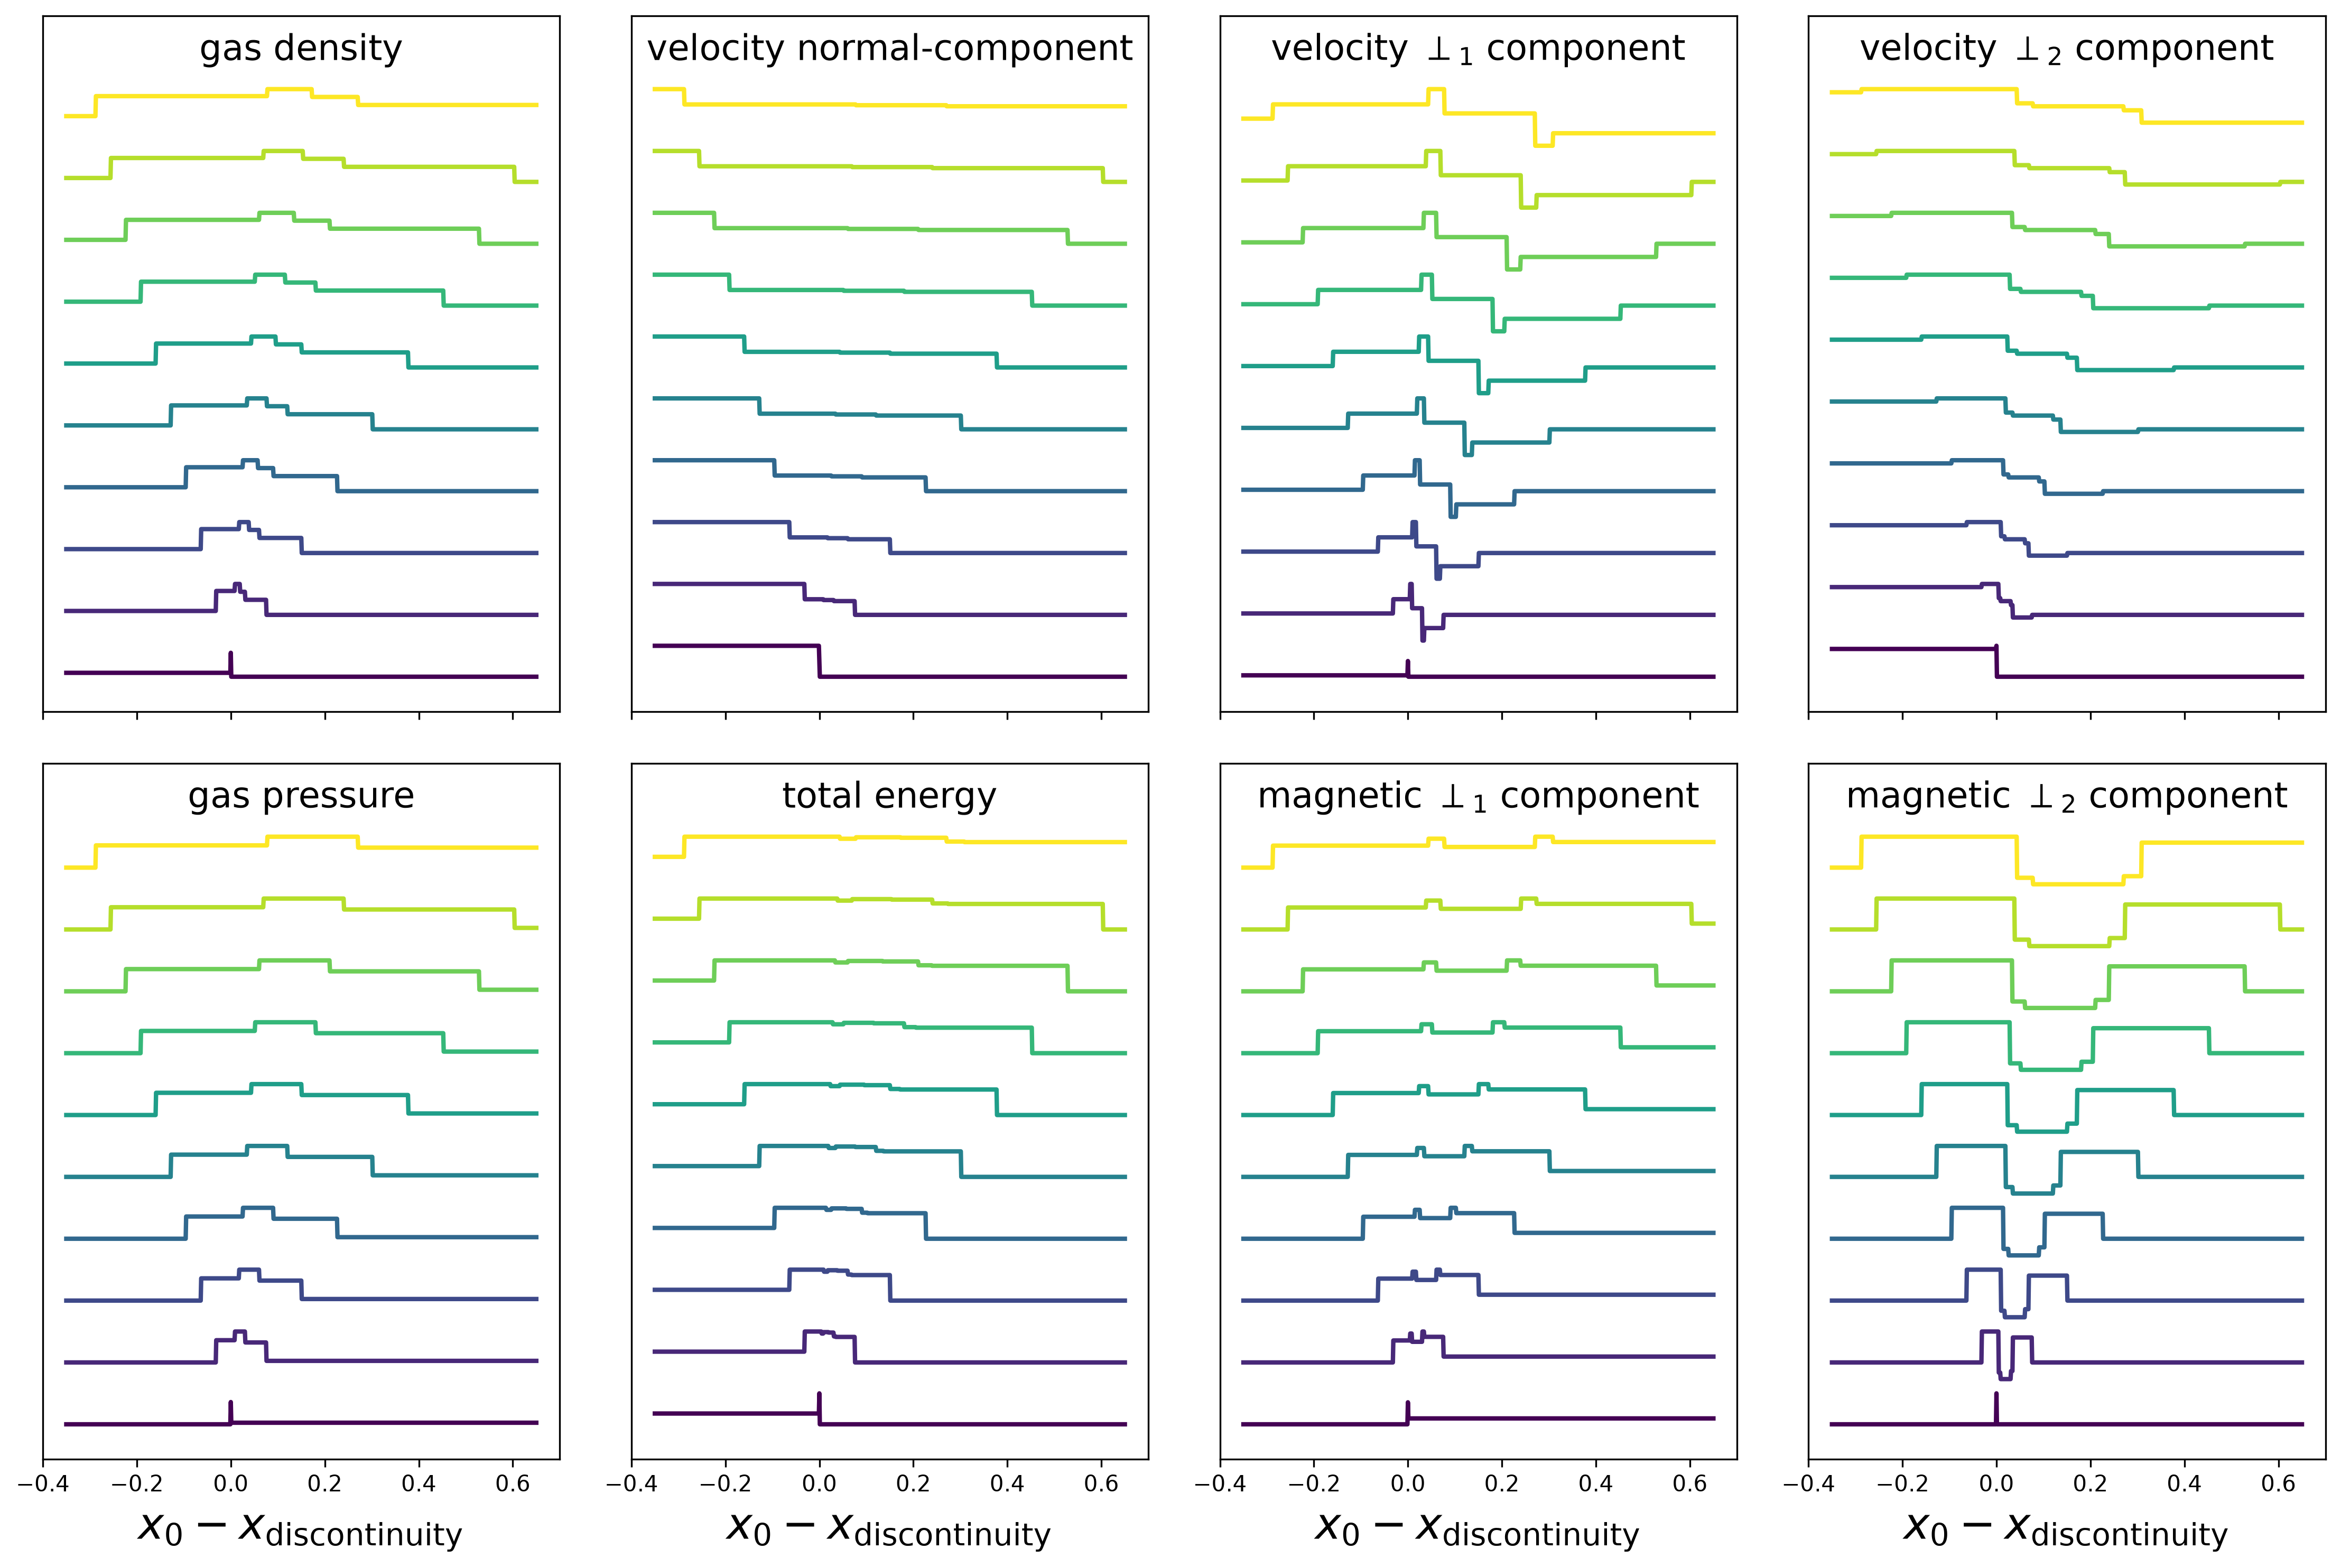
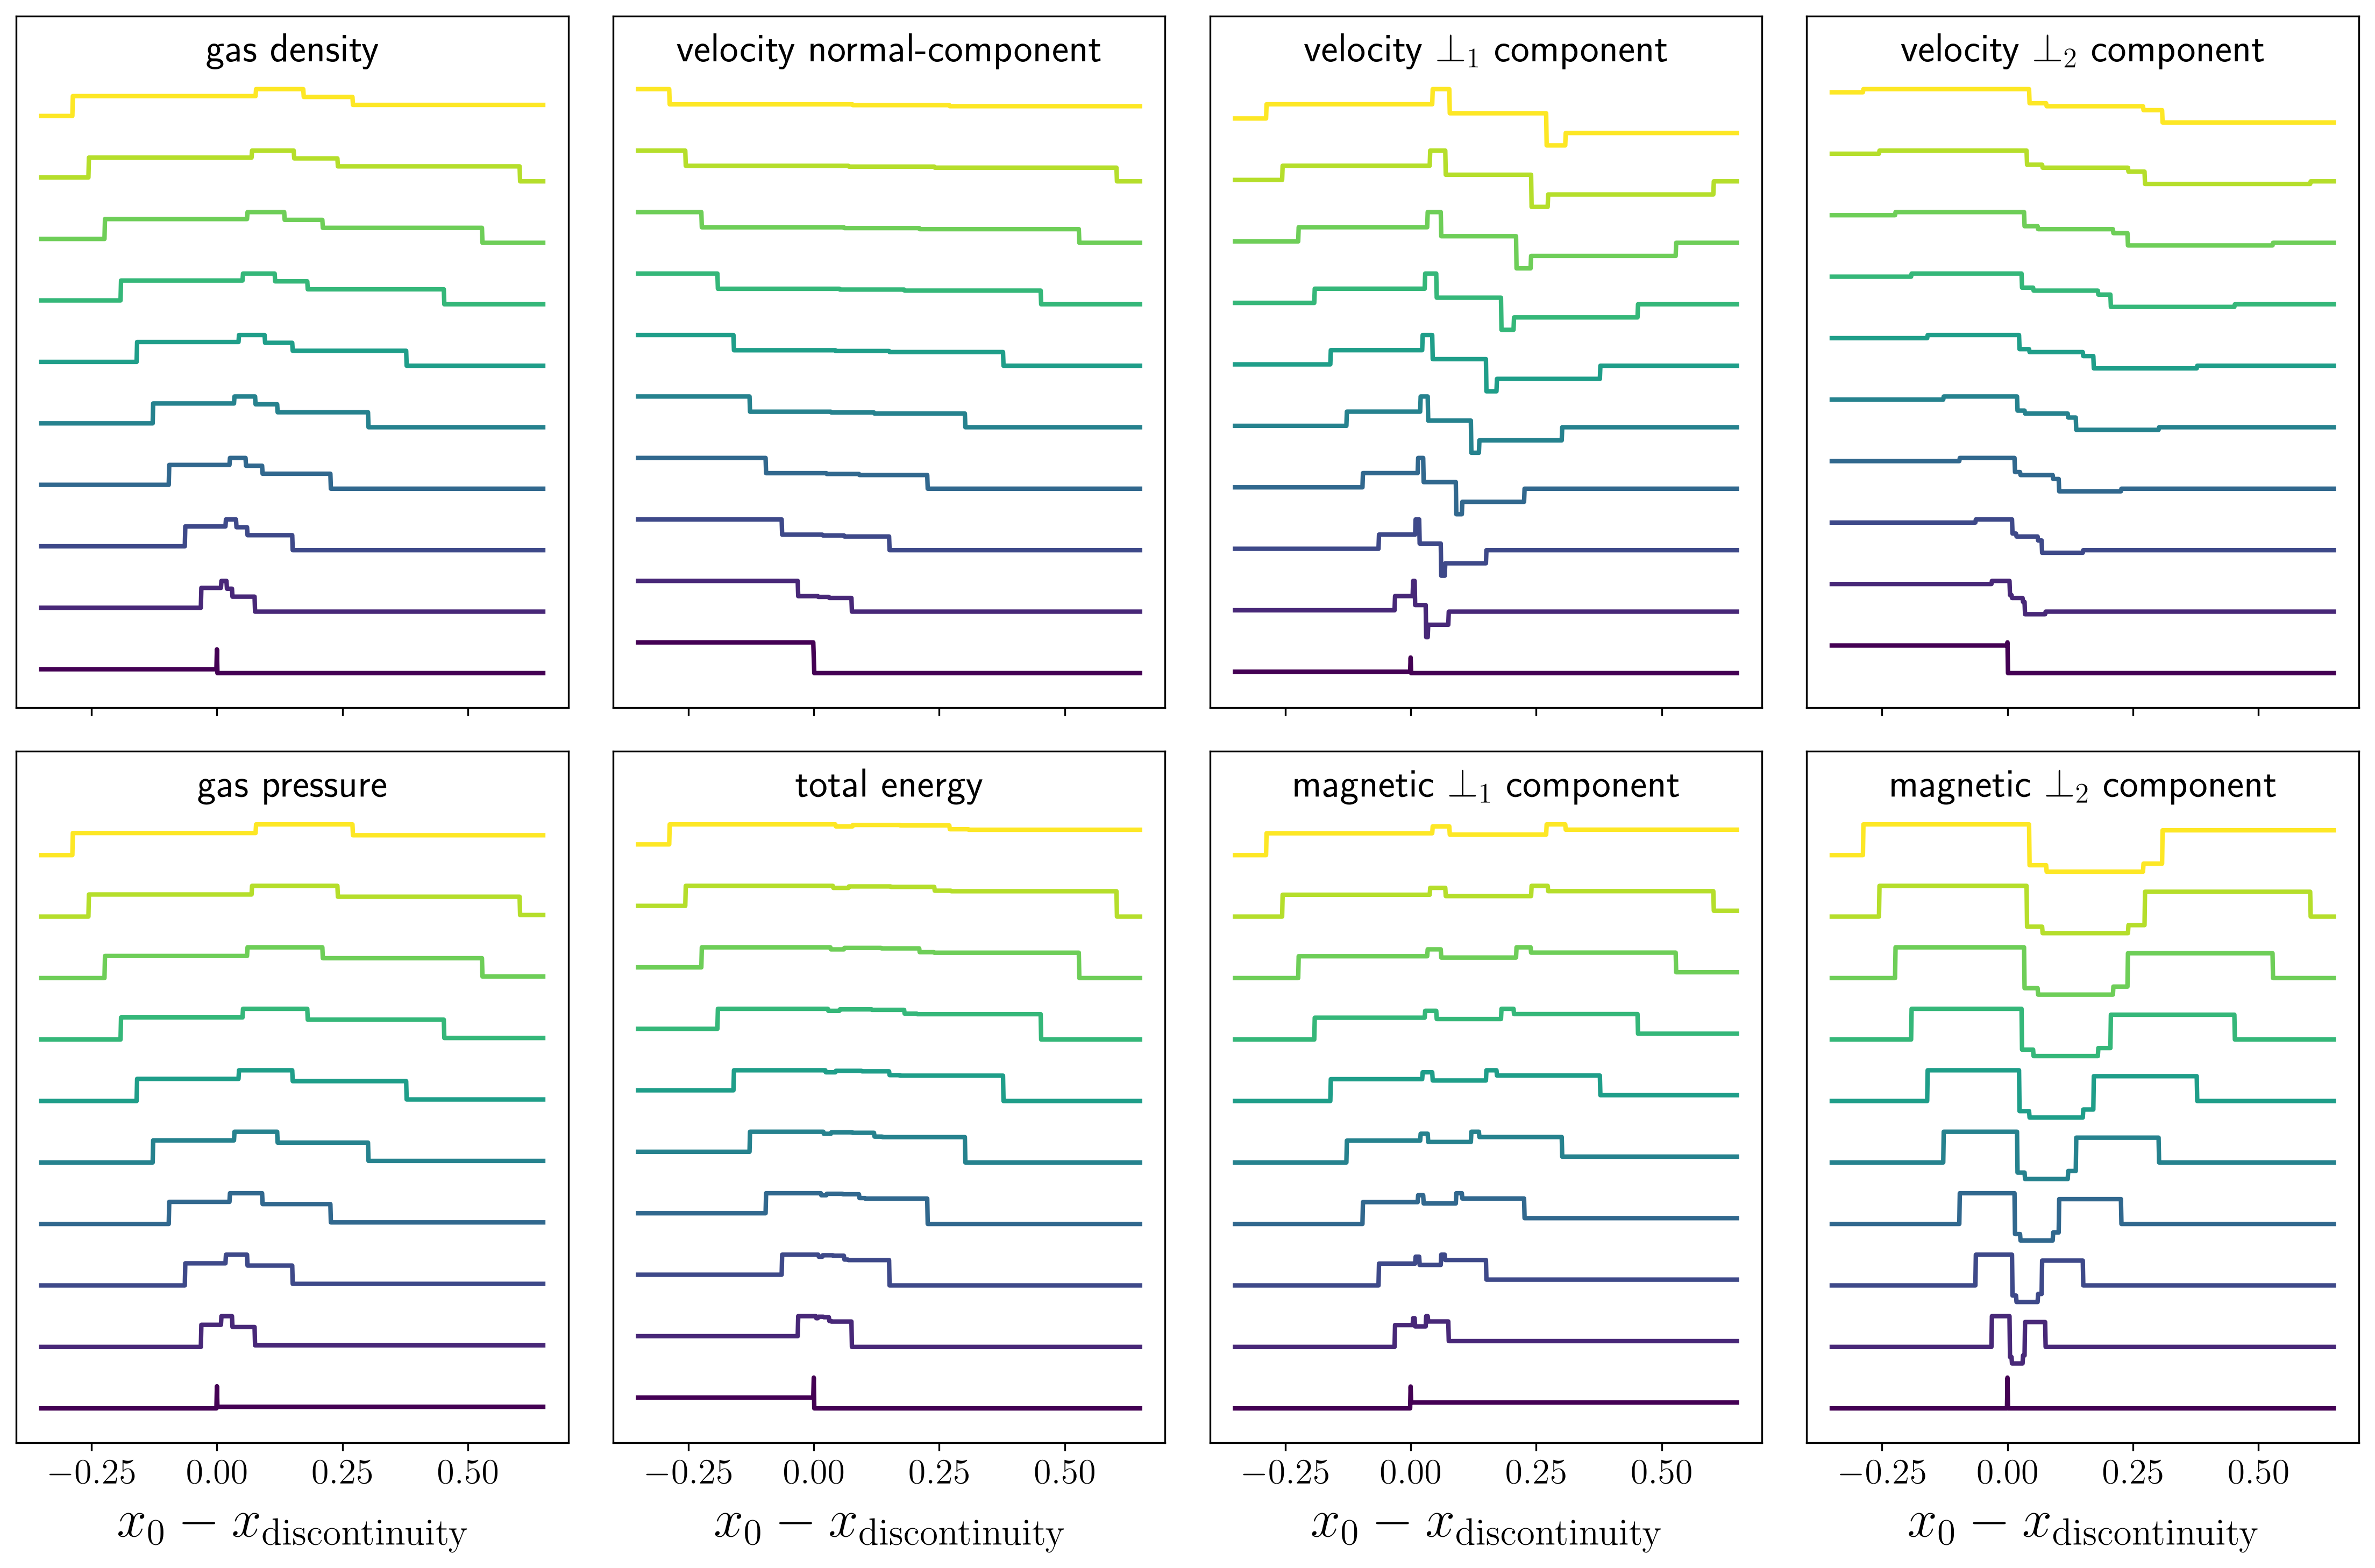
update-fn(plot_wave_grid): bump font sizes; enable latex rendering; tighten panel spacing.

diff --git a/demos/demo_ryu_jones_2a.py b/demos/demo_ryu_jones_2a.py
@@ -116,14 +116,14 @@ def extract_profile_evolutions(
     return [
         ## row 1: density, then velocity components
         ProfileEvolution(
-            label="gas density",
+            label=r"gas density",
             values_by_time=[
                 numpy.array([snapshot_state.density for snapshot_state in snapshot])
                 for snapshot in snapshots_by_time
             ],
         ),
         ProfileEvolution(
-            label="velocity normal-component",
+            label=r"velocity normal-component",
             values_by_time=[
                 numpy.array([snapshot_state.velocity_normal for snapshot_state in snapshot])
                 for snapshot in snapshots_by_time
@@ -145,14 +145,14 @@ def extract_profile_evolutions(
         ),
         ## row 2: energy, then magnetic components
         ProfileEvolution(
-            label="gas pressure",
+            label=r"gas pressure",
             values_by_time=[
                 numpy.array([snapshot_state.pressure for snapshot_state in snapshot])
                 for snapshot in snapshots_by_time
             ],
         ),
         ProfileEvolution(
-            label="total energy",
+            label=r"total energy",
             values_by_time=[
                 numpy.array(
                     [
@@ -207,6 +207,15 @@ def plot_wave_grid(
     times: NDArray[Any],
 ) -> Figure:
     """Return a 2x4 grid figure, one ridgeline wave panel per quantity in `profile_evolutions`."""
+    mpl_plot.rcParams.update(
+        {
+            "font.size": 16,
+            "axes.labelsize": 24,
+            "xtick.labelsize": 16,
+            "ytick.labelsize": 16,
+            "text.usetex": True,
+        },
+    )
     num_times = len(times)
     ## spacing between ridge baselines, sized so the whole stack fits in [BOTTOM_MARGIN, 1 - TOP_MARGIN]
     ridge_spacing = (1.0 - BOTTOM_MARGIN - TOP_MARGIN) / (num_times - 1)
@@ -241,11 +250,14 @@ def plot_wave_grid(
             transform=ax.transAxes,
             horizontalalignment="center",
             verticalalignment="top",
-            fontsize=16,
+            fontsize=18,
         )
     for col in range(axs.shape[1]):
-        axs[-1, col].set_xlabel(r"$x_0 - x_{\mathrm{discontinuity}}$", fontsize=20)
-    fig.tight_layout(h_pad=2.0)
+        axs[-1, col].set_xlabel(r"$x_0 - x_{\mathrm{discontinuity}}$")
+    fig.tight_layout(
+        h_pad=1.0,
+        w_pad=1.0,
+    )
     return fig
 
 